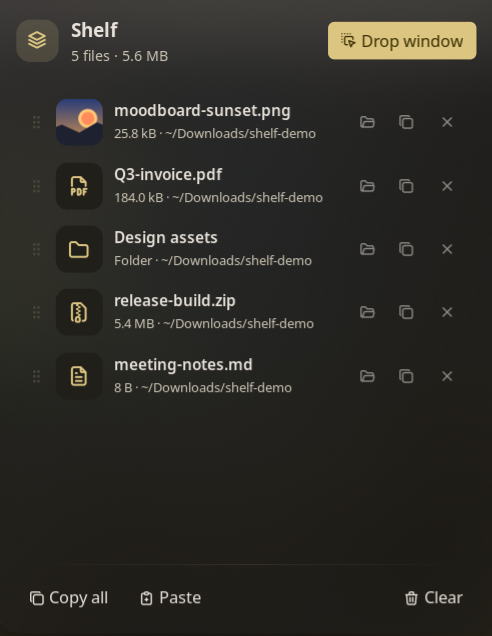
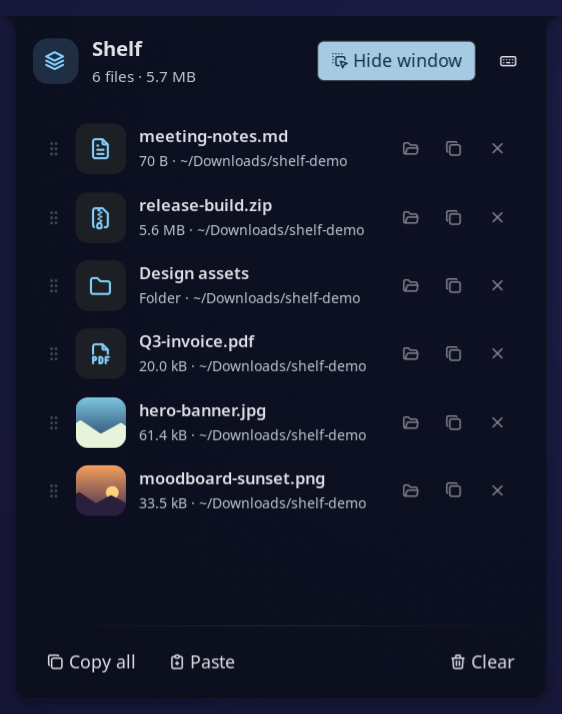
Refresh screenshots and thumbnail, ignore stale panel view requests
The panel reopened at the keyboard shortcut section after a plugin reload,
because the last view request survives in shared state. Requests older than a
few seconds are now ignored.

Screenshots show the current drop window and panel, and the store thumbnail is
made with the Noctalia thumbnail generator.

diff --git a/shelf/README.md b/shelf/README.md
@@ -4,7 +4,7 @@ A drop shelf for your desktop. Drag files onto it from any app, keep them there 
 into a browser upload, a chat, an email, or a folder. Shelf keeps references only: files stay where they are, and
 removing something from the shelf never touches the file on disk.
 
-![Shelf panel listing five files](assets/panel.png)
+![Shelf panel listing six files](assets/panel.png)
 ![Shelf drop window](assets/drop-window.png)
 
 ## Plugin
@@ -64,6 +64,8 @@ when you press the key. Shelf makes that one step:
    shortcut`). Shelf detects your compositor and shows the exact line for its config.
 3. Press **Add for me** to have Shelf add the line (it backs the file up as `<config>.shelf-backup`), or **Copy line**
    and paste it yourself.
+
+![Keyboard shortcut section of the Shelf panel](assets/shortcut.png)
 
 **Add for me** supports Hyprland (`hyprland.conf` or `hyprland.lua`), niri, Sway, Scroll, Umbriel, labwc, and Mango.
 It refuses when the keys are already bound, and shows the line that uses them. On KDE Plasma and GNOME, add a custom
@@ -128,5 +130,5 @@ noctalia msg plugin alok-debnath/shelf:service all shortcut      # open the pane
   reads where the pointer is. If the compositor does not report it, the window opens in the middle of the screen.
 - Thumbnails in the drop window come from the freedesktop thumbnail cache when your file manager made one, or from
   the image itself.
-- Tested on Hyprland and umbriel. The drop window is plain GTK 4, so it works on any Wayland compositor. Placement
-  and moving need a compositor with layer-shell support.
+- Tested on umbriel; earlier versions were also tested on Hyprland. The drop window is plain GTK 4, so it works on
+  any Wayland compositor. Placement and moving need a compositor with layer-shell support.
